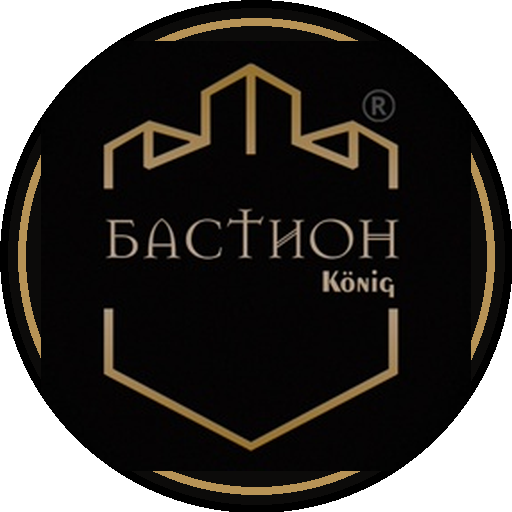
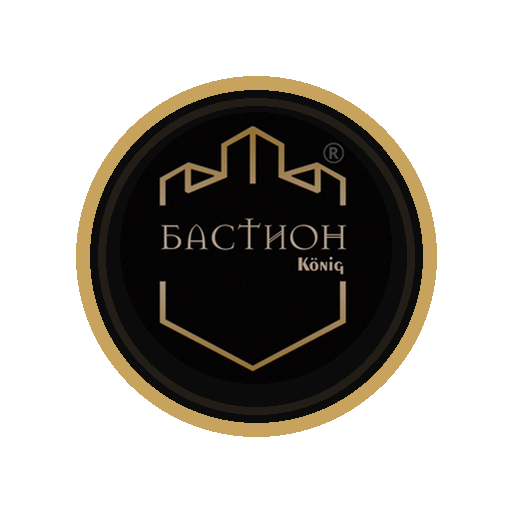
Fix venue medallion artwork QA

diff --git a/site/src/assets/organizers/source/README.md b/site/src/assets/organizers/source/README.md
@@ -1,6 +1,6 @@
 # Organizer medallion source assets
 
-Retrieved: 2026-06-29; `dom-kitoboya` social avatar rechecked 2026-07-01; SVG/WebP runtime pass checked 2026-07-02; venue gap medallions added 2026-07-03; venue visual tuning/WebP contract pass added 2026-07-04.
+Retrieved: 2026-06-29; `dom-kitoboya` social avatar rechecked 2026-07-01; SVG/WebP runtime pass checked 2026-07-02; venue gap medallions added 2026-07-03; venue visual tuning/WebP contract pass added 2026-07-04; seven-item Gemini/QA repair pass added 2026-07-04.
 
 These files are official/source-faithful inputs for the first event-page organizer medallions. Final runtime assets live in `site/public/assets/organizers/`.
 
@@ -21,15 +21,15 @@ These files are official/source-faithful inputs for the first event-page organiz
 | `dramteatr39` | Калининградский драматический театр | https://dramteatr39.ru/ | https://dramteatr39.ru/img/logo.svg?v=2 | `/assets/organizers/dramteatr39.svg` | Официальный горизонтальный SVG масштабирован и обрезан кругом до левого театрального знака; фон сделан фирменно-тёмным для белого исходника. |
 | `muzteatr39` | Калининградский музыкальный театр | https://muzteatr39.ru/ | https://muzteatr39.ru/wp-content/uploads/image_theme/logo2.png | `/assets/organizers/muzteatr39.webp` (`.png` fallback) | Официальный квадратный PNG пересобран как WebP-primary медальон без трассировки; фон затемнён для контраста белого знака. |
 | `dom-iskusstv` | Калининградский театр эстрады / Дом искусств | https://домискусств39.рф/ | https://static.tildacdn.com/tild3965-6438-4135-a233-383865633034/svg.svg | `/assets/organizers/dom-iskusstv.svg` | Официальный Tilda SVG wordmark Театра эстрады/Дома искусств встроен в круглый медальон. |
-| `city-jazz-club` | Калининград Сити Джаз Клуб | https://londonpub.ru/cityjazz/events | https://static.tildacdn.com/tild6331-6539-4430-a531-343262333939/logojazz.png | `/assets/organizers/city-jazz-club.webp` (`.png` fallback) | Логотип клубной площадки оттриммирован, отцентрирован и пересобран как WebP-primary; это отдельный venue-medallion, не фестивальный Kaliningrad City Jazz. |
-| `rostec-arena` | Ростех Арена | https://t.me/rostec_arena | public Telegram profile avatar | `/assets/organizers/rostec-arena.svg` | Чистый статический логотип на сайте не найден; форма взята из публичного Telegram-аватара официального канала и вручную пересобрана как чистый SVG с полным синим кругом. |
-| `bar-bastion` | Бар Бастион | https://vk.com/bar_bastion | public VK avatar `bar-bastion.vk-avatar-20260704.jpg` | `/assets/organizers/bar-bastion.webp` (`.png` fallback) | Публичный VK-аватар извлечён из страницы без VK API и заменяет временный initials badge. |
-| `signal` | Сигнал | https://signalcommunity.timepad.ru/ | Timepad organization logo `logo_org_265887.jpg` | `/assets/organizers/signal.webp` (`.png` fallback) | Timepad organization logo served WebP-primary; no edge-trace/vectorization. |
+| `city-jazz-club` | Калининград Сити Джаз Клуб | https://londonpub.ru/cityjazz/events | https://static.tildacdn.com/tild6331-6539-4430-a531-343262333939/logojazz.png (`recheck-20260704/city-jazz-club.official-logojazz.png`) | `/assets/organizers/city-jazz-club.svg` (+ PNG QA fallback) | Низкое разрешение official Tilda PNG больше не масштабируется как runtime raster: круглый знак вручную пересобран в crisp SVG с золотым диском, центральным якорным знаком и крупной читаемой подписью CITY JAZZ; это отдельный venue-medallion, не фестивальный Kaliningrad City Jazz. |
+| `rostec-arena` | Ростех Арена | https://www.rostec-arena.ru/ | https://www.rostec-arena.ru/theme/src/logo.svg (`recheck-20260704/rostec-arena.official-logo.svg`) | `/assets/organizers/rostec-arena.svg` (+ PNG QA fallback) | Официальный SVG-логотип сайта встроен без ручной перерисовки: сохранены фирменные голубые полосы и белый wordmark на синем градиентном круге. |
+| `bar-bastion` | Бар Бастион | https://vk.com/bar_bastion | public VK avatar `bar-bastion.vk-avatar-20260704.jpg` | `/assets/organizers/bar-bastion.webp` (`.png` fallback) | VK-аватар маскируется во внутренний круг, а золотая бренд-обводка рисуется последней; разрывы окружности от квадратного overlay устранены. |
+| `signal` | Сигнал | https://t.me/signalkld + https://signalcommunity.timepad.ru/ | Telegram avatar `recheck-20260704/signal.telegram-avatar-20260704.jpg`; Timepad `logo_org_265887.jpg` | `/assets/organizers/signal.svg` (+ PNG/WebP QA fallback) | Убран белый прямоугольник внутри тёмного круга; овальный знак «СИГНАЛ» аккуратно реконструирован как чистый SVG на белом круге; внутренние oval-strokes убраны, чтобы не было пересечений с текстом; без edge-trace shortcut. |
 | `mumod` | Музей курортной моды | https://mumod.ru/ | https://mumod.ru/wp-content/themes/mumod/images/logo.svg | `/assets/organizers/mumod.svg` | Официальный SVG-логотип с сайта музея встроен в светлый круглый медальон. |
 | `kldzoo` | Калининградский зоопарк | https://kldzoo.ru/ | https://kldzoo.ru/local/templates/s1/img/logo.png | `/assets/organizers/kldzoo.webp` (`.png` fallback) | Официальный квадратный PNG увеличен и отдаётся WebP-primary; внешняя салатовая обводка заменена на нейтральную. |
-| `locostandup` | Стендап-клуб «Локация» | https://t.me/locostandup | public Telegram profile avatar | `/assets/organizers/locostandup.webp` (`.png` fallback) | Использован публичный Telegram-аватар официального канала; runtime WebP-primary. |
-| `kaliningrad-art-museum` | Калининградский музей изобразительных искусств | https://kaliningradartmuseum.ru/ | https://kaliningradartmuseum.ru/local/templates/museum2023/images/logo-footer.png | `/assets/organizers/kaliningrad-art-museum.webp` (`.png` fallback) | Официальный footer PNG разложен как знак сверху и подпись ниже; runtime WebP-primary. |
+| `locostandup` | Стендап-клуб «Локация» | https://locostandup.ru/ | https://img3.creatium.ru/disk2/ee/53/e9/5338346aed3353ce0b7a71e35231aeda9e/lokaciya.svg (`recheck-20260704/locostandup.official-logo.svg`) | `/assets/organizers/locostandup.svg` (+ PNG/WebP QA fallback) | Telegram microphone avatar replaced by the official site vector wordmark; light circle + red brand ring removes the unfinished square/ring crop. |
+| `kaliningrad-art-museum` | Калининградский музей изобразительных искусств | https://www.kaliningradartmuseum.ru/ | homepage inline SVG `recheck-20260704/kaliningrad-art-museum.official-inline-logo.svg`; footer PNG still kept as source | `/assets/organizers/kaliningrad-art-museum.svg` (+ PNG QA fallback) | Фон заменён на официальный бордовый `#871B30` из SVG/CSS сайта; медальон стал SVG с официальным знаком сверху и читаемой короткой подписью `МУЗЕЙ ИЗО`. |
 | `brachert` | Дом-музей Германа Брахерта | https://hbrachert.ru/ | https://hbrachert.ru/bitrix/templates/brachert/images/logo-br.png | `/assets/organizers/brachert.webp` (`.png` fallback) | Официальный PNG-логотип hbrachert.ru отдаётся WebP-primary. |
-| `ruin-keepers` | Хранители руин | https://ruin-keepers.ru/ | official site PNG logo `ruin-keepers.logo.png` | `/assets/organizers/ruin-keepers.svg` | Официальный сайт даёт raster PNG-логотип; для медальона знак башни/сердца вручную реконструирован как простой векторный SVG. |
+| `ruin-keepers` | Хранители руин | https://ruin-keepers.ru/ | official 1-bit PNG logo `recheck-20260704/ruin-keepers.official-logo.png` | `/assets/organizers/ruin-keepers.svg` (+ PNG/WebP QA fallback) | Traced вариант отклонён на QA как недоделанный; знак вручную пересобран как чистый SVG по официальному мотиву башни/сердца: замкнутая башня и сердце без грубых пересечений. |
 
 No OpenAI image generation/editing was used. The medallions were produced by local SVG rendering/vectorization, official SVG wrapping, source cropping/recomposition, and PNG fallback export. If no SVG source/vector-safe source exists, browser-facing runtime assets should be WebP-first, with PNG only as fallback/QA; old public JPG/SVG-container raster medallions are not kept as primary runtime assets.

diff --git a/docs/features/static-site-pages/event-token-medallions.md b/docs/features/static-site-pages/event-token-medallions.md
@@ -166,22 +166,23 @@ Asset inventory:
 | `dramteatr39` | Калининградский драматический театр | `/assets/organizers/dramteatr39.svg` | official `dramteatr39.ru/img/logo.svg`, scaled/cropped to the left emblem |
 | `muzteatr39` | Калининградский музыкальный театр | `/assets/organizers/muzteatr39.webp` (`.png` fallback) | official square PNG, WebP-primary raster medallion, no tracing |
 | `dom-iskusstv` | Театр эстрады / Дом искусств | `/assets/organizers/dom-iskusstv.svg` | official Tilda SVG wordmark from `домискусств39.рф` |
-| `city-jazz-club` | Калининград Сити Джаз Клуб | `/assets/organizers/city-jazz-club.webp` (`.png` fallback) | club logo from `londonpub.ru/cityjazz/events`, trimmed/recentered, separate from festival medallion |
-| `rostec-arena` | Ростех Арена | `/assets/organizers/rostec-arena.svg` | manual-vector SVG rebuilt from the public Telegram avatar `@rostec_arena` |
-| `bar-bastion` | Бар Бастион | `/assets/organizers/bar-bastion.webp` (`.png` fallback) | public VK avatar extracted on 2026-07-04; replaces the temporary neutral initials badge |
-| `signal` | Сигнал | `/assets/organizers/signal.webp` (`.png` fallback) | Timepad organization logo, WebP-primary raster medallion |
+| `city-jazz-club` | Калининград Сити Джаз Клуб | `/assets/organizers/city-jazz-club.svg` | club logo from `londonpub.ru/cityjazz/events`, manually rebuilt as crisp vector with large readable CITY JAZZ lettering, separate from festival medallion |
+| `rostec-arena` | Ростех Арена | `/assets/organizers/rostec-arena.svg` | official site SVG `/theme/src/logo.svg` wrapped into the medallion; no Telegram-avatar redraw |
+| `bar-bastion` | Бар Бастион | `/assets/organizers/bar-bastion.webp` (`.png` fallback) | public VK avatar extracted on 2026-07-04; inner avatar mask and ring-on-top repair remove broken-circle artifacts |
+| `signal` | Сигнал | `/assets/organizers/signal.svg` | clean SVG reconstruction from the official Signal oval logo; internal oval strokes were removed so nothing crosses the wordmark |
 | `mumod` | Музей курортной моды | `/assets/organizers/mumod.svg` | official SVG from `mumod.ru` |
 | `kldzoo` | Калининградский зоопарк | `/assets/organizers/kldzoo.webp` (`.png` fallback) | official square PNG from `kldzoo.ru`, enlarged and WebP-primary |
-| `locostandup` | Стендап-клуб «Локация» | `/assets/organizers/locostandup.webp` (`.png` fallback) | public Telegram avatar `@locostandup`, WebP-primary raster medallion |
-| `kaliningrad-art-museum` | Калининградский музей изобразительных искусств | `/assets/organizers/kaliningrad-art-museum.webp` (`.png` fallback) | official footer PNG logo split into mark-above/wordmark-below composition |
+| `locostandup` | Стендап-клуб «Локация» | `/assets/organizers/locostandup.svg` | official vector wordmark from `locostandup.ru`, replacing the unfinished Telegram-avatar crop |
+| `kaliningrad-art-museum` | Калининградский музей изобразительных искусств | `/assets/organizers/kaliningrad-art-museum.svg` | official inline SVG mark on brand burgundy `#871B30`, with readable short label `МУЗЕЙ ИЗО` |
 | `brachert` | Дом-музей Германа Брахерта | `/assets/organizers/brachert.webp` (`.png` fallback) | official PNG from `hbrachert.ru`, WebP-primary raster medallion |
-| `ruin-keepers` | Хранители руин | `/assets/organizers/ruin-keepers.svg` | official site PNG logo mark from `ruin-keepers.ru`, manually reconstructed as source-faithful vector SVG |
+| `ruin-keepers` | Хранители руин | `/assets/organizers/ruin-keepers.svg` | clean manual SVG reconstruction from the official `ruin-keepers.ru` tower/heart motif after traced SVG QA was rejected |
 
 2026-07-04 venue visual tuning pass:
 
-- `rostec-arena`, `city-jazz-club`, `bar-bastion`, `mumod`, `kldzoo` and `kaliningrad-art-museum` were visually retuned after desktop/mobile QA feedback;
-- `bar-bastion` now uses the public VK avatar instead of the temporary neutral initials badge;
-- `ruin-keepers` was added as a vector organizer medallion from the official site logo mark;
+- `rostec-arena` was switched from a Telegram-avatar approximation to the official site SVG lockup;
+- `signal`, `locostandup`, `city-jazz-club`, `kaliningrad-art-museum` and `ruin-keepers` were reworked after critical QA/Gemini feedback: Signal loses the rectangular card, Location uses the official vector wordmark, City Jazz becomes vector, the Art Museum uses official burgundy `#871B30`, and Ruin Keepers uses a clean manual SVG reconstruction after the traced PNG vectorization was rejected on QA;
+- `bar-bastion` keeps the public VK avatar but masks the image before drawing the gold ring, so the circle no longer breaks;
+- `mumod`, `kldzoo` and earlier `kaliningrad-art-museum` sizing fixes remain from the preceding visual tuning pass;
 - runtime contract was tightened: raster/non-vector medallions in organizer/festival manifests are served as WebP primary with PNG fallback, while SVG runtime is reserved for true vector/manual-vector/official-SVG marks.
 
 ### Festival logo medallions

diff --git a/CHANGELOG.md b/CHANGELOG.md
@@ -7,7 +7,7 @@
 
 ### Added
 
-- **Static site pages / Ruin Keepers medallion**: added a source-grounded vector medallion for «Хранители руин» from the official ruin-keepers.ru logo mark.
+- **Static site pages / Ruin Keepers medallion**: added a source-grounded medallion for «Хранители руин» from the official ruin-keepers.ru logo mark.
 - **Static site pages / venue medallions**: added source-grounded venue medallions for Янтарь холл, Драмтеатр, Музыкальный театр, Дом искусств/Театр эстрады, Kaliningrad City Jazz Club, Ростех Арена, Бар Бастион, Сигнал, Музей курортной моды, Калининградский зоопарк, Локация, Музей ИЗО and Дом-музей Брахерта, with official SVG/PNG/social-avatar provenance in the organizer manifest.
 - **Static event issue reporting**: added an admin-only event-page report link and Supabase/ArtKodex handoff so a Yandex-authenticated admin can launch an events-bot incident repair task from a static event page.
 - **Static event issue reporting history**: admin event pages now fetch existing report statuses and ArtKodex thread links dynamically while still allowing new reports.
@@ -24,6 +24,7 @@
 
 ### Changed
 
+- **Static site pages / venue medallion QA repairs**: replaced Ростех Арена with the official site SVG lockup, rebuilt Signal/Location/City Jazz/Museum IZO as cleaner SVG medallions where vector-safe, replaced the rejected Ruin Keepers trace with a clean manual SVG reconstruction from the official mark, applied the museum brand burgundy `#871B30`, and fixed the Бар Бастион raster mask so the gold circle no longer breaks.
 - **Static site pages / medallion raster contract**: retuned Ростех Арена, City Jazz Club, Бар Бастион, Музей курортной моды, Калининградский зоопарк and Музей ИЗО medallions, and switched raster/non-vector medallions to WebP primary with PNG fallback instead of SVG containers embedding raster sources.
 - **Personalization / smart-search quota and cache**: replaced the user-facing monthly smart-search quota with a one-hour cooling window (`60` searches/hour on the registered plan, still bounded by daily provider budget), added a private salted-hash short-lived result cache whose hits do not spend quota, and made the cache physically clear on event/vector corpus updates.
 - **Static site pages / merged vector-medallion MVP preview**: merged the Smart Update vector-identity gate and medallion SVG upgrade branches, rebuilt `preview-20260702t1536-merged-vector-medallions` from the 2026-07-02 production snapshot with `399` active/future events through id `6613`, refreshed Supabase pgvector `search_v3`/`related_v1` documents and `399` stable CDN ICS files, and verified public `/poisk/`, `/vystavki/`, `/partners/`, `/lab/medallions/`, sample fresh event pages `6601`/`6605`/`6613`, Yandex auth readiness, mocked UI search, real Edge search and the `/vystavki/` duplicate audit since `2026-07-02`.
